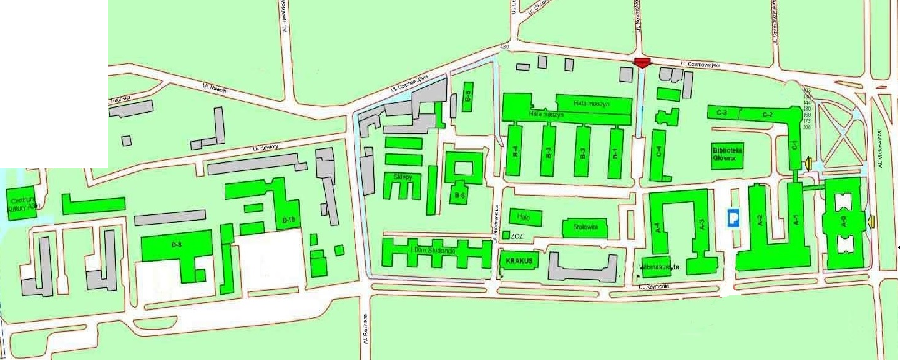
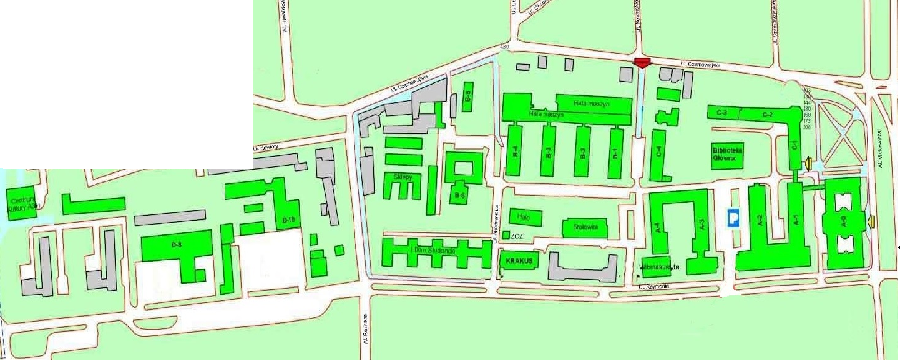
poprawa legendy w mapie
Dopisałem możliwość wypisywania godziny i jedzonych zestawów. No i kurda jemy cały tydzień schabowy z ziemniakami :p

Changed region(s): [[0.0933, 0.0, 0.28, 0.4889]]

diff --git a/mapa.m b/mapa.m
@@ -1,7 +1,7 @@
 function [  ] = mapa(rozwiazanie, liczba_dni)
 
 
-global poz_cz;
+global poz_cz; global S;
 
 % wczytuje plan
 plan = imread('map_agh.png');
@@ -43,6 +43,17 @@ nazwa_rest = {'Dagrasso  ';
               'Lemon     ';
               'Zaczek    ';
               'Barek     '};
+          
+nazwa_zestawu = {   'pizza            ';
+                    'makaron          ';
+                    'mieso & ziemniaki';
+                    'ryba & ryz       ';
+                    'kebab            ';
+                    'zupa             ';
+                    'burger           ';
+                    'zapiekanka       ';
+                    'pierogi          ';
+                    'precle/drozdzowka'};
              
 % petla po liczbie dni             
 for dzien=1:liczba_dni
@@ -80,11 +91,13 @@ for dzien=1:liczba_dni
     
     
     nr_rest = zeros(3,1);
+    nr_zestawu = zeros(3,1);
     %zaznaczam restauracje z macierzy rozwiazanie:
     for nr_slotu=1:3
         
         % pobieram nr restauracji z macierzy rozwiazanie:
         nr_rest(nr_slotu) = rozwiazanie(nr_slotu, dzien*2-1);
+        nr_zestawu(nr_slotu) = rozwiazanie(nr_slotu, dzien*2);
         
         % pobieram nowe wspolrzedne budynku z macierzy new_poz_rest:
         x_rest = new_poz_rest(nr_rest(nr_slotu), 1); 
@@ -106,22 +119,73 @@ for dzien=1:liczba_dni
         text(x_rest-4+(bylo*10), y_rest, num2str(2*nr_slotu));
     end
     
+    
+    % wyliczanie czasow zajec i posilkow
+    for i=1:3 % ide po liczbie slotow
+        mm = mod(S(i,dzien),60); % ile jest minut w slocie
+        hh = (S(i,dzien) - mm)/60; % ile jest godzin w slocie
+        
+        switch i
+            case 1 % godzina rozpoczecia zajec drugich
+                hh = hh + 10; %
+                if(mm < 10)
+                    % funkcja strcat() skleja stringi 
+                    godzina_zajec_2 = strcat(num2str(hh), ':0', num2str(mm));
+                else
+                    godzina_zajec_2 = strcat(num2str(hh), ':', num2str(mm));
+                end        
+            case 2 % godzina rozpoczecia zajec trzecich
+                hh = hh + 13;
+                if(mm < 10)
+                    godzina_zajec_3 = strcat(num2str(hh), ':0', num2str(mm));
+                else
+                    godzina_zajec_3 = strcat(num2str(hh), ':', num2str(mm));
+                end  
+            case 3 % godzina rozpoczecia zajec czwartych
+                hh = hh + 16;
+                mm = mm + 30; % tutaj dochodzi problem, bo nie liczymy od rownej godziny
+                if(mm >= 60) % a w tym if-ie rozwiazuje ten problem
+                    hh = hh + 1;
+                    mm = mm - 60;
+                end
+                if(mm < 10)
+                    godzina_zajec_4 = strcat(num2str(hh), ':0', num2str(mm));
+                else
+                    godzina_zajec_4 = strcat(num2str(hh), ':', num2str(mm));
+                end
+            otherwise
+                continue
+        end
+    end
+    
+    czas = {    '8:00 ';            % zajecia 1
+                '10:00';            % przerwa 1
+                godzina_zajec_2;    % zajecia 2
+                '13:00';            % przerwa 2
+                godzina_zajec_3;    % zajecia 3
+                '16:30';            % przerwa 3
+                godzina_zajec_4;    % zajecia 4
+                '18:00';};          % koniec zajec 4
+    
+    
     %legenda
     for i=1:(3+4)
         if(mod(i,2) ~= 0)
             nr_b = nr_budynku((i+1)/2);
             
-            %podzielilem to na dwukrotne wypisywanie tekstu, bo za cholere
+            %podzielilem to na trzykrotne wypisywanie tekstu, bo za cholere
             %nie chcialo dzialac jak bylo w jednej linijce:
-            text(10, 10+(i*20), [num2str(i) ': ']);
-            text(30, 10+(i*20), nazwa_budynku(nr_b));
+            text(10, 10+(i*20), czas(i));
+            text(40, 10+(i*20), ' - ');
+            text(50, 10+(i*20), nazwa_budynku(nr_b));
         else
             nr_r = nr_rest(i/2);
             
-            %podzielilem to na dwukrotne wypisywanie tekstu, bo za cholere
+            %podzielilem to na trzykrotne wypisywanie tekstu, bo za cholere
             %nie chcialo dzialac jak bylo w jednej linijce:
-            text(10, 10+(i*20), [num2str(i) ': ']);
-            text(30, 10+(i*20), nazwa_rest(nr_r));
+            text(10, 10+(i*20), czas(i));
+            text(40, 10+(i*20), ' - ');
+            text(50, 10+(i*20), strcat(nazwa_rest(nr_r), ' ', nazwa_zestawu(nr_r)));
         end
     
     end
